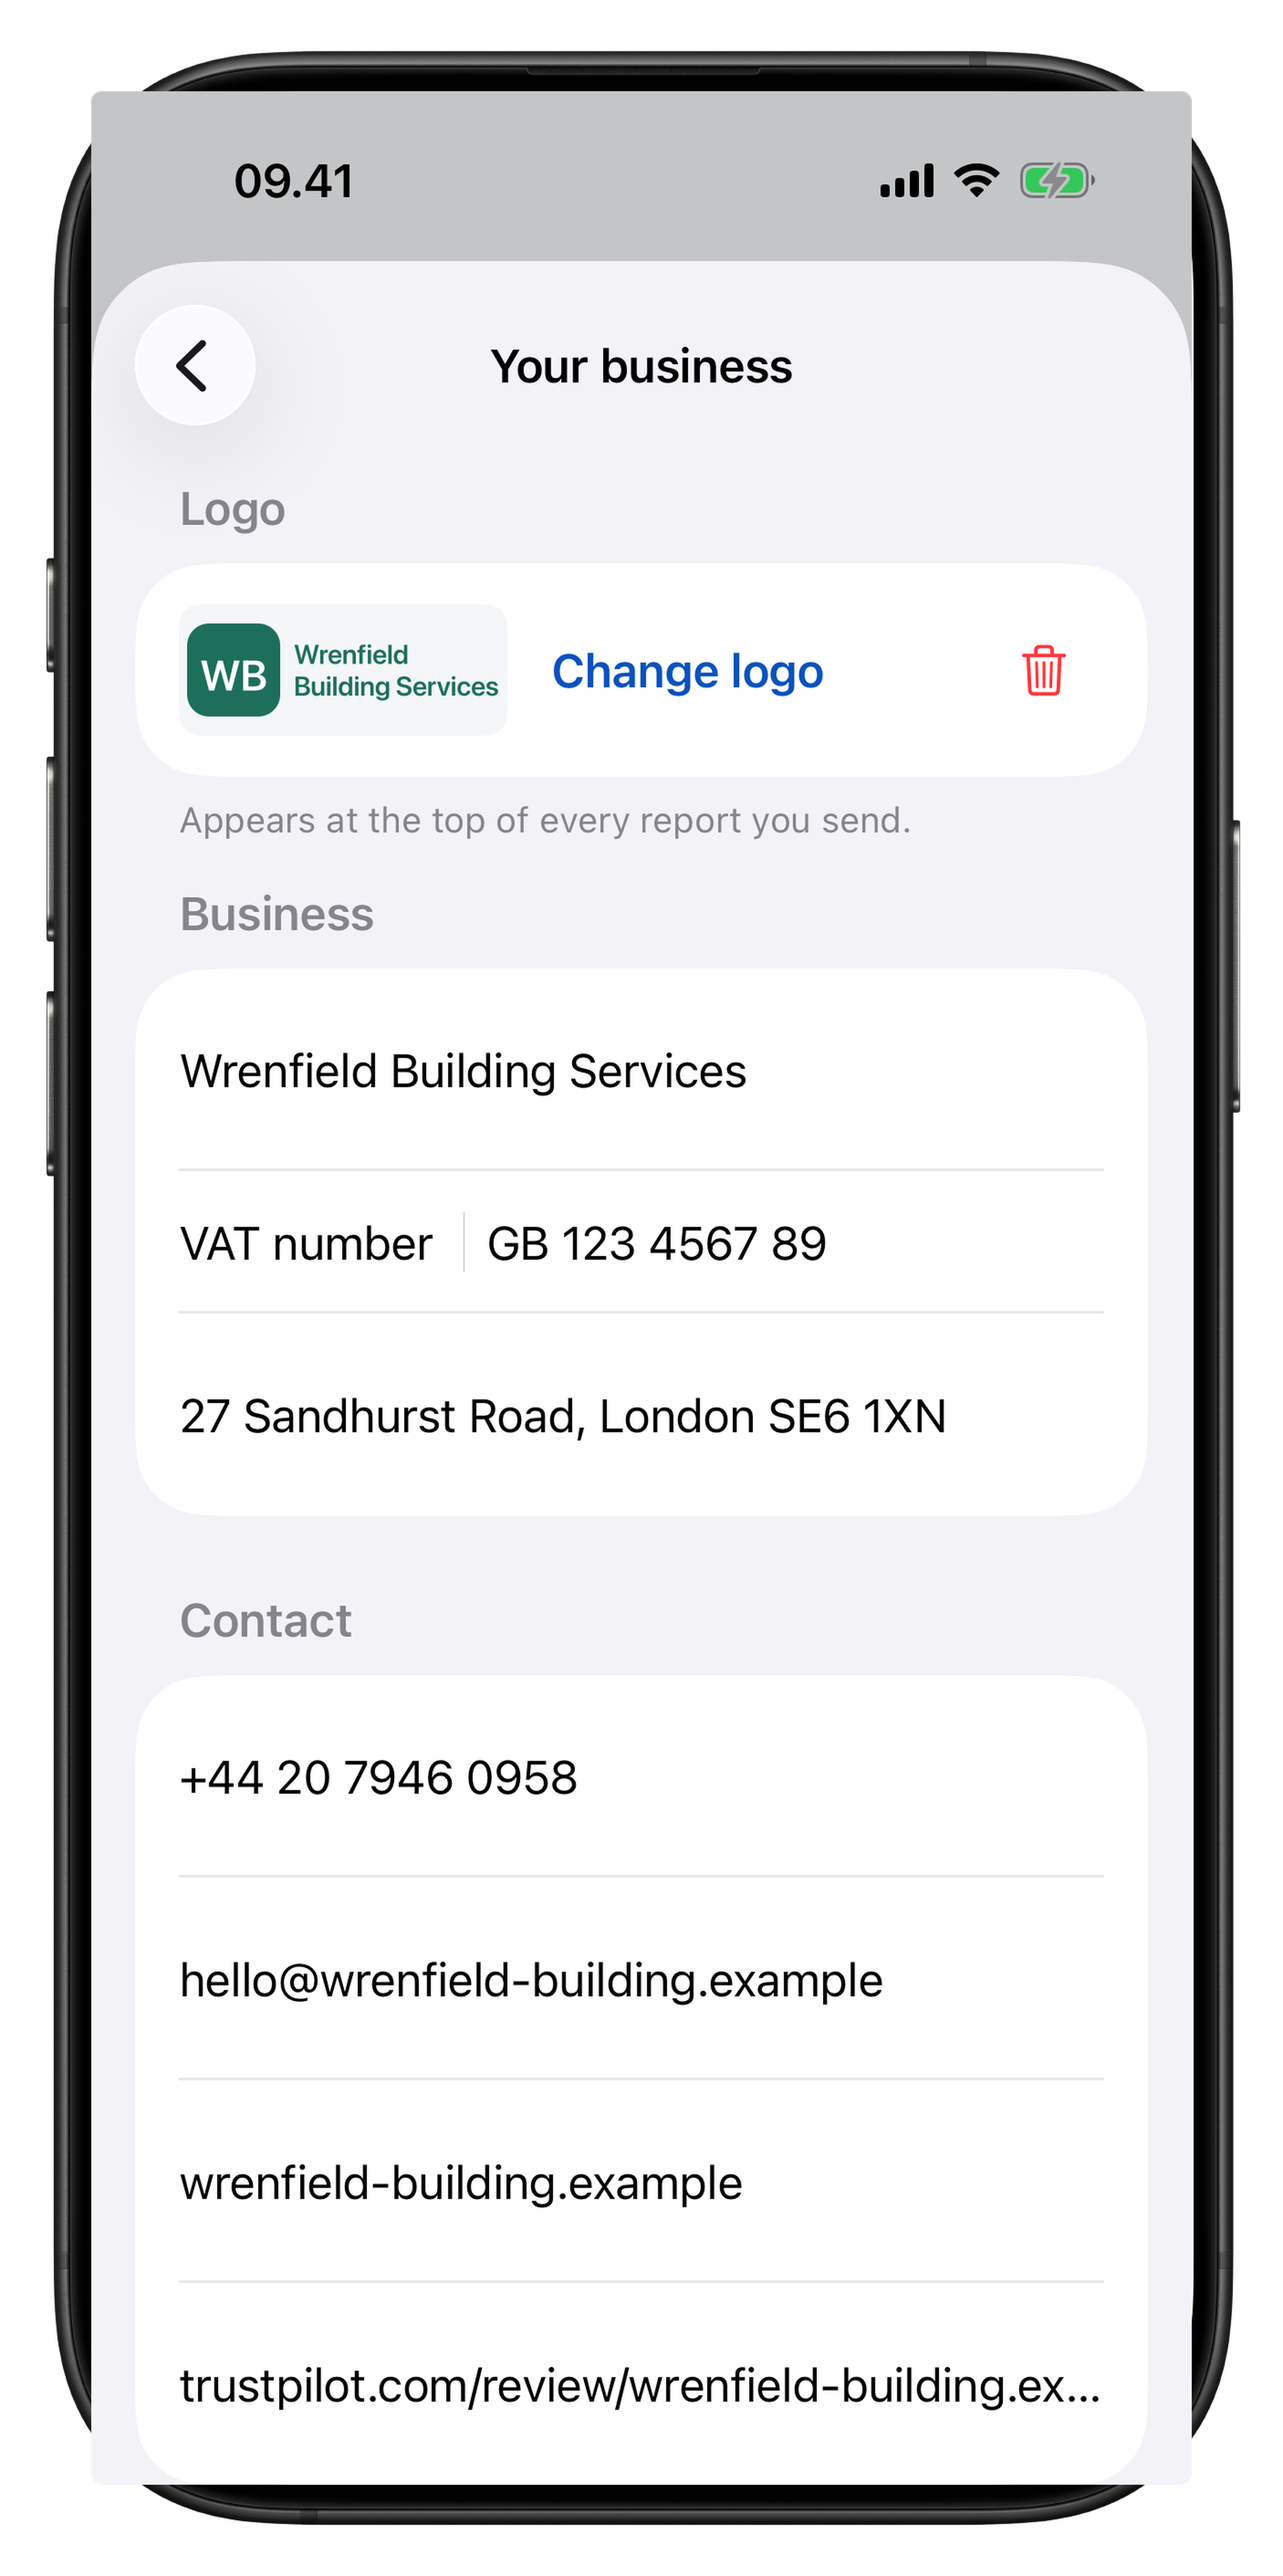
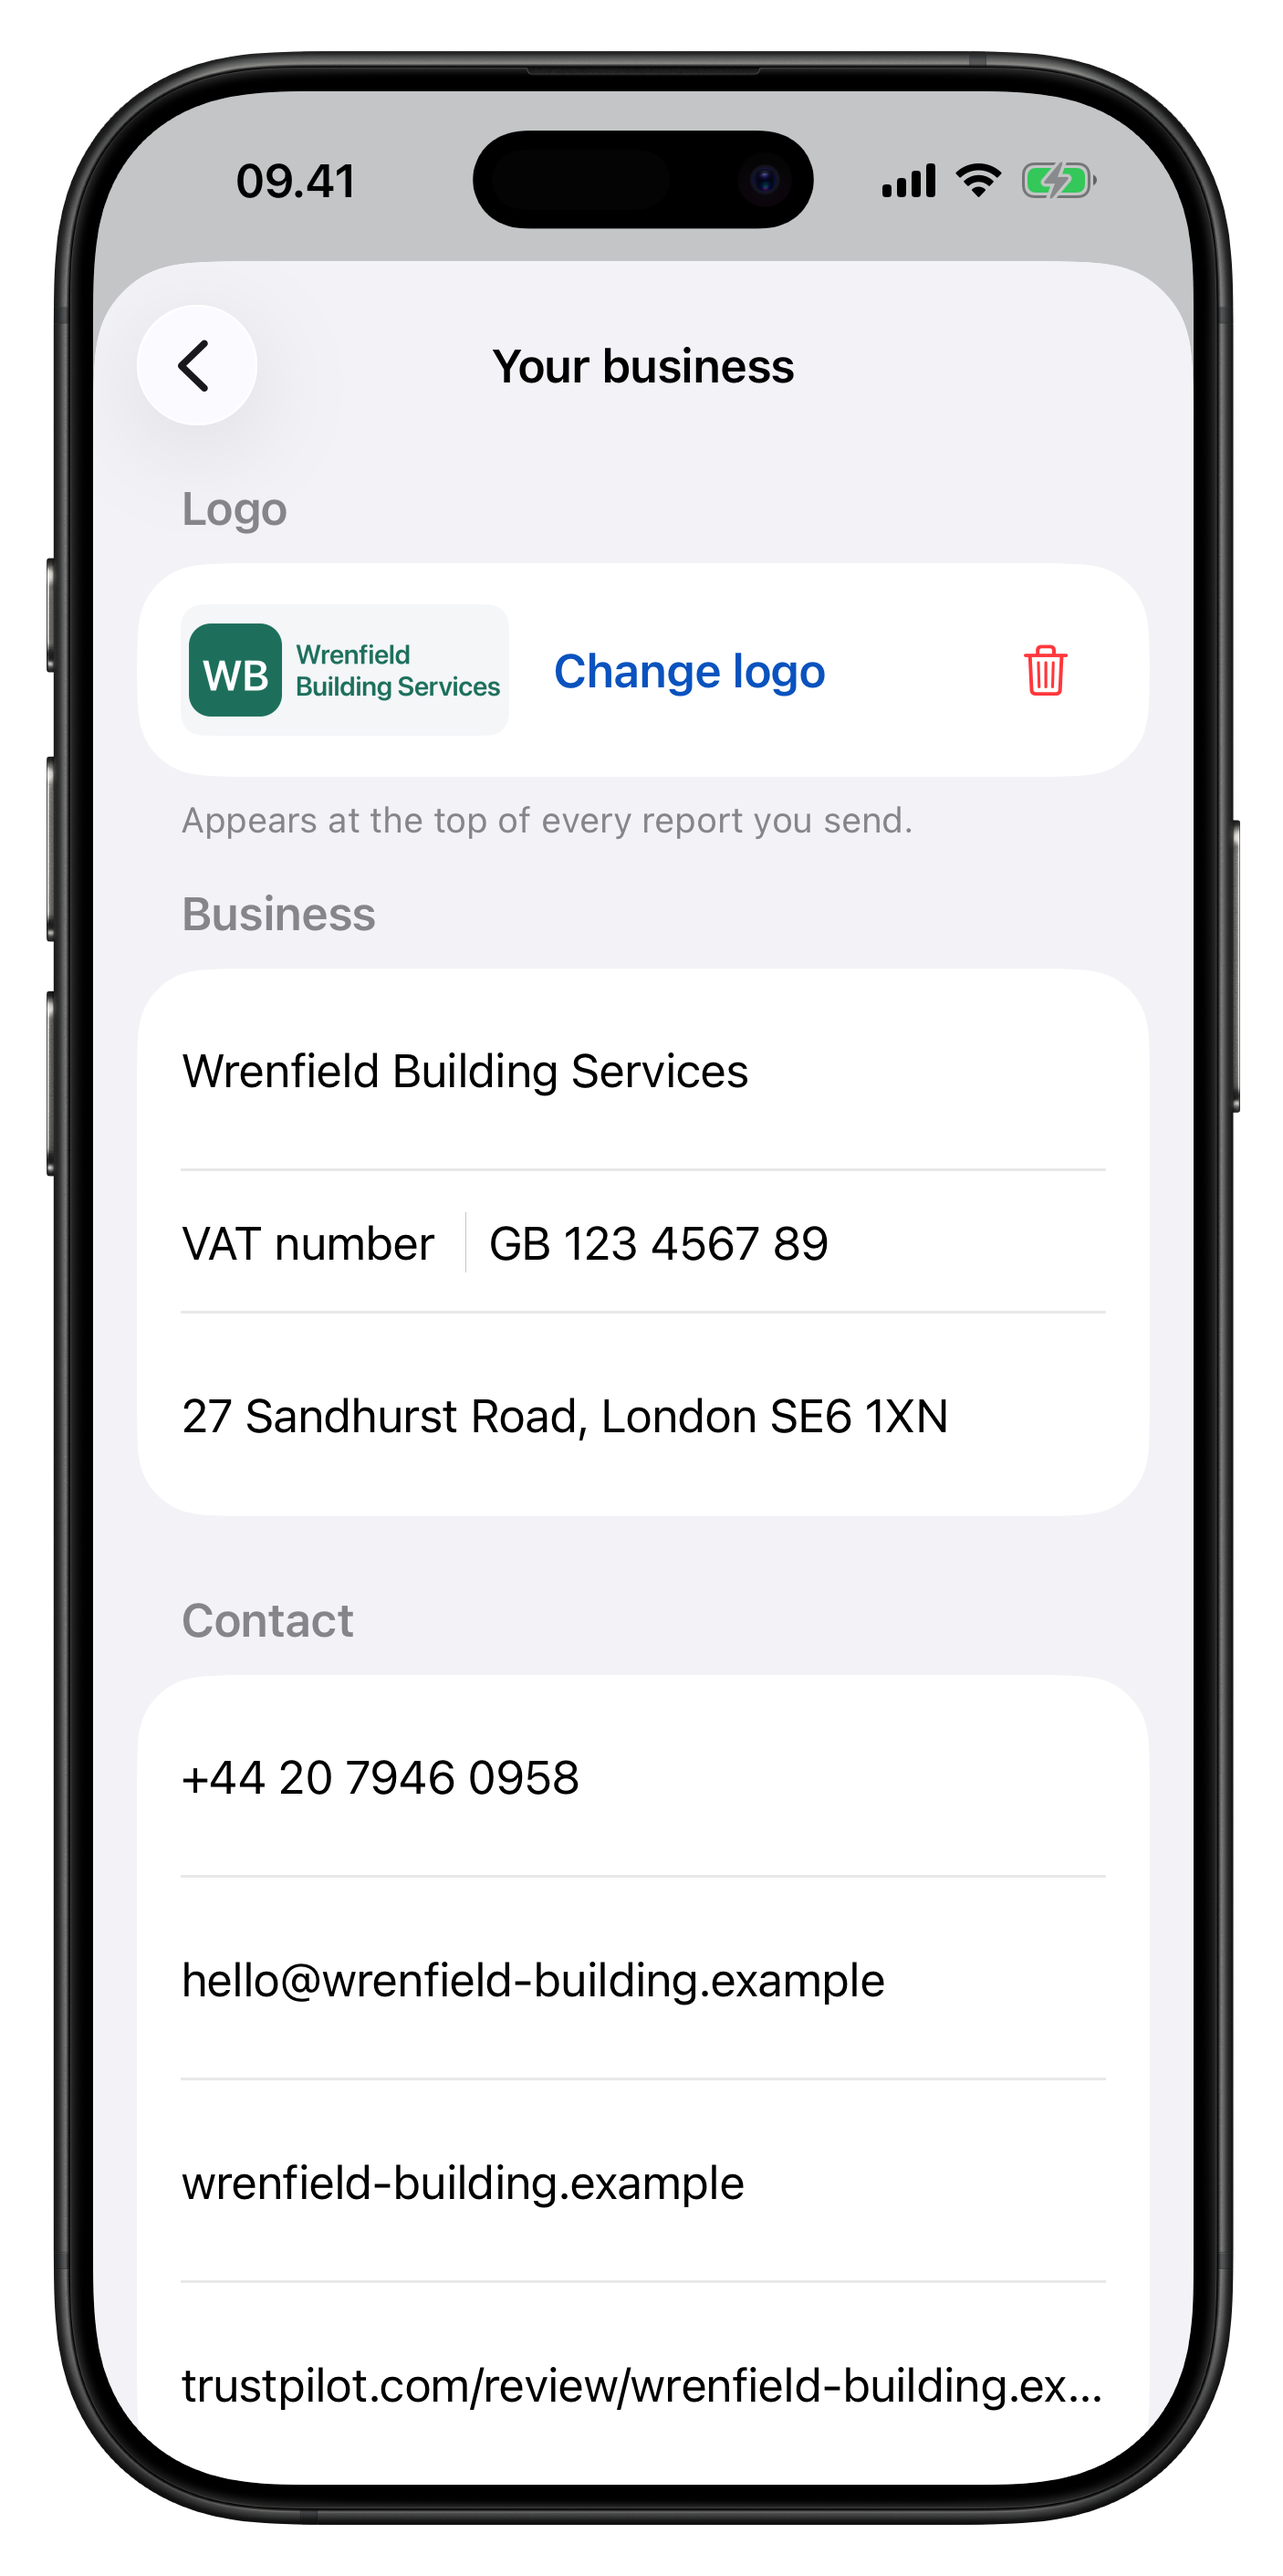
Align screenshots inside the device frames
The framed shots were built by pasting each raw 1206x2622 screenshot on top
of the iPhone 16 Pro frame at (100,100), unmasked. The frame's transparent
screen aperture actually starts at (102,100), so every shot was 2px off; and
because the screenshot sat over the frame with square corners, it covered the
rounded bezel and poked out past the device silhouette, as well as painting
over the Dynamic Island the frame draws.

Composite the shot into the aperture instead: behind the frame, at the real
origin, clipped to the device silhouette, with the frame alpha-composited on
top. The output silhouette is now pixel-identical to the bare frame, and the
only region more opaque than it is the aperture itself.

Add tools/frame-screens.py so this is reproducible rather than a one-off. It
fetches the frame into a gitignored cache instead of committing it.

Closes #9

Claude-Session: https://claude.ai/code/session_01LBhGTewcFU4mvcQbd5ZqRz

diff --git a/tools/frame-screens.py b/tools/frame-screens.py
@@ -1,0 +1,97 @@
+#!/usr/bin/env python3
+"""Composite the raw simulator screenshots into an iPhone 16 Pro device frame.
+
+The raw shots in assets/screens are 1206x2622 (iPhone 16 Pro @3x). The frame PNG
+has a transparent screen aperture at (102, 100)-(1307, 2721) — exactly 1206x2622 —
+so each shot drops straight in with no scaling. The screenshot goes *behind* the
+frame, which is what keeps the rounded screen corners and the Dynamic Island right,
+and it is clipped to the device silhouette so its square corners cannot poke out
+past the rounded bezel.
+
+The frame itself is downloaded on demand (and cached, gitignored) rather than
+committed, so we are not redistributing it.
+
+    python3 tools/frame-screens.py
+"""
+from __future__ import annotations
+
+import sys
+import urllib.request
+from pathlib import Path
+
+from PIL import Image, ImageChops, ImageDraw
+
+ROOT = Path(__file__).resolve().parent.parent
+SRC = ROOT / "assets" / "screens"
+OUT = SRC / "framed"
+CACHE = ROOT / "tools" / ".cache"
+FRAME = CACHE / "iphone-16-pro-black-titanium.png"
+FRAME_URL = (
+    "https://raw.githubusercontent.com/jamesjingyi/mockup-device-frames/main/"
+    "Exports/iOS/16%20Pro/16%20Pro%20-%20Black%20Titanium.png"
+)
+
+# Transparent screen aperture inside the frame, measured from its alpha channel.
+APERTURE = (102, 100)
+SCREEN_SIZE = (1206, 2622)
+
+
+def load_frame() -> Image.Image:
+    if not FRAME.exists():
+        CACHE.mkdir(parents=True, exist_ok=True)
+        print(f"downloading device frame -> {FRAME}")
+        urllib.request.urlretrieve(FRAME_URL, FRAME)
+    return Image.open(FRAME).convert("RGBA")
+
+
+def body_mask(frame: Image.Image) -> Image.Image:
+    """Everything enclosed by the device silhouette — the bezel plus the aperture.
+
+    Flood-filling the transparent background in from a corner leaves the screen
+    aperture (transparent, but not reachable from outside) as the only hole.
+    """
+    filled = frame.getchannel("A").point(lambda v: 255 if v > 0 else 0)
+    ImageDraw.floodfill(filled, (0, 0), 128)
+    return filled.point(lambda v: 0 if v == 128 else 255)
+
+
+def main() -> int:
+    frame = load_frame()
+    mask = body_mask(frame)
+    OUT.mkdir(parents=True, exist_ok=True)
+
+    shots = sorted(p for p in SRC.glob("*.png") if p.is_file())
+    if not shots:
+        print(f"no screenshots in {SRC}", file=sys.stderr)
+        return 1
+
+    for shot in shots:
+        screen = Image.open(shot).convert("RGBA")
+        if screen.size != SCREEN_SIZE:
+            print(f"  {shot.name}: {screen.size} -> resizing to {SCREEN_SIZE}")
+            screen = screen.resize(SCREEN_SIZE, Image.LANCZOS)
+
+        canvas = Image.new("RGBA", frame.size, (0, 0, 0, 0))
+        canvas.paste(screen, APERTURE)
+        canvas.putalpha(ImageChops.multiply(canvas.getchannel("A"), mask))
+        canvas.alpha_composite(frame)
+
+        # Zero the colour of fully transparent pixels: browsers honour alpha, but
+        # viewers and thumbnailers that ignore it otherwise show the leftover
+        # screenshot colour as square corners around the device.
+        alpha = canvas.getchannel("A")
+        opaque = alpha.point(lambda v: 255 if v > 0 else 0)
+        canvas = Image.merge(
+            "RGBA",
+            [ImageChops.multiply(ch, opaque) for ch in canvas.split()[:3]] + [alpha],
+        )
+
+        dest = OUT / shot.name
+        canvas.save(dest, optimize=True)
+        print(f"framed {shot.name} -> {dest.relative_to(ROOT)}")
+
+    return 0
+
+
+if __name__ == "__main__":
+    raise SystemExit(main())
